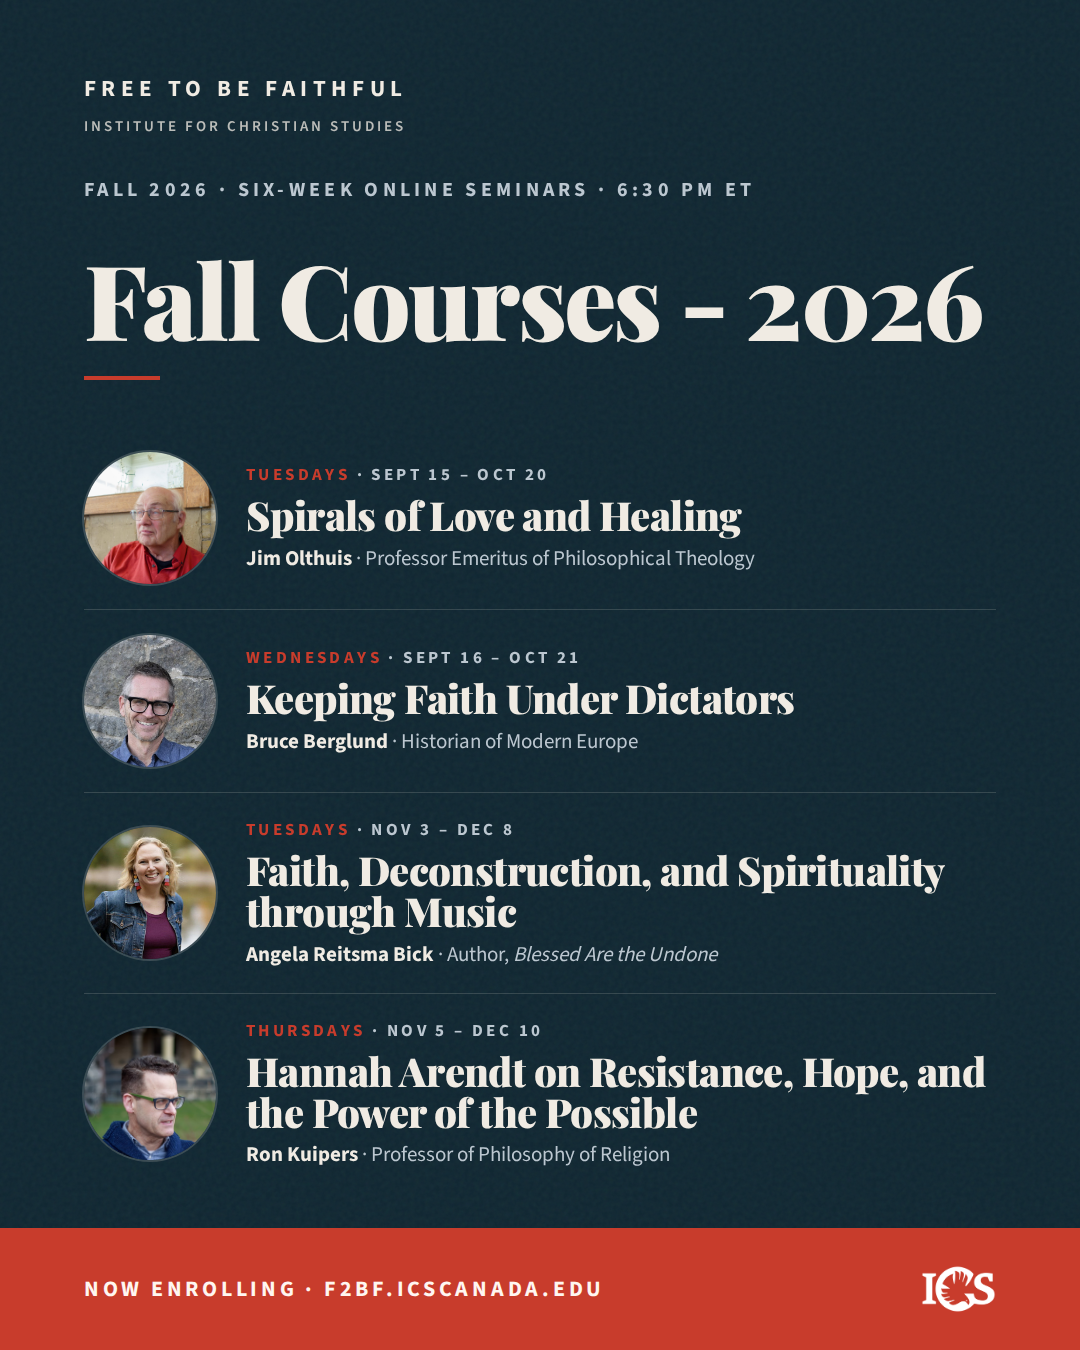
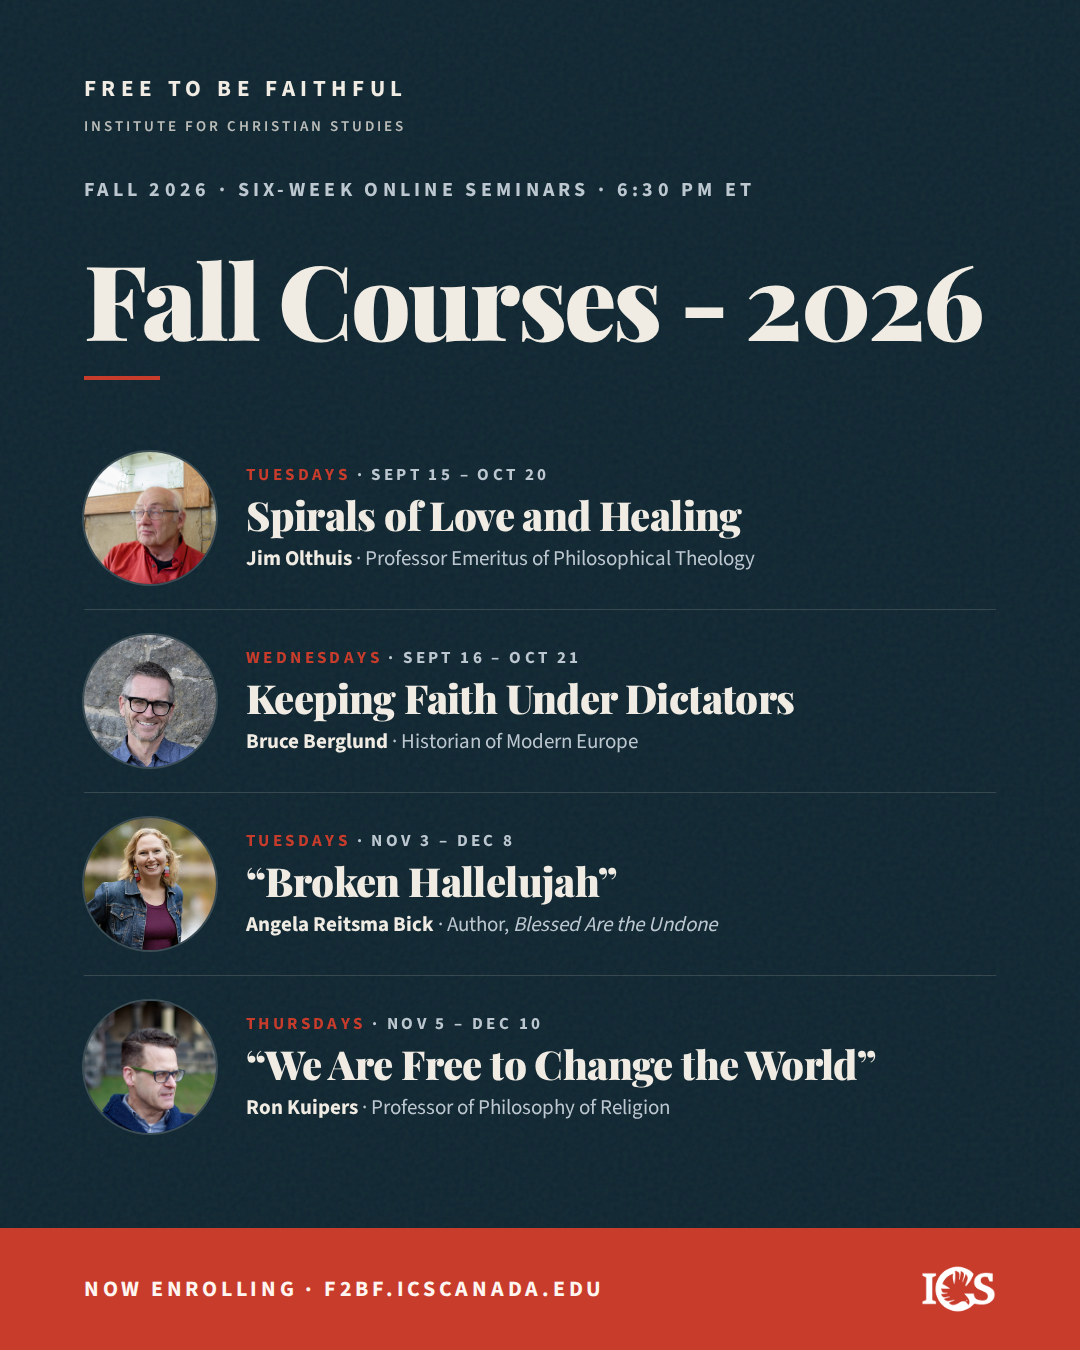
date

Changed region(s): [[0.0611, 0.5911, 0.9167, 0.8711]]

diff --git a/social/2026-27-tiles.html b/social/2026-27-tiles.html
@@ -289,7 +289,7 @@
       <div class="course__face"><img class="course__img" src="../assets/img/AngelaBick.jpeg" alt="" style="object-position: 50% 40%"><div class="course__tint"></div></div>
       <div>
         <div class="course__meta">Tuesdays <span>· Nov 3 – Dec 8</span></div>
-        <div class="course__name">Faith, Deconstruction, and Spirituality through Music</div>
+        <div class="course__name">“Broken Hallelujah”</div>
         <div class="course__who"><strong>Angela Reitsma Bick</strong> · Author, <em>Blessed Are the Undone</em></div>
       </div>
     </div>
@@ -297,7 +297,7 @@
       <div class="course__face"><img class="course__img" src="../assets/img/RonKuipers.jpg" alt="" style="object-position: 44% 22%; transform: scale(1.45); transform-origin: 44% 26%"><div class="course__tint"></div></div>
       <div>
         <div class="course__meta">Thursdays <span>· Nov 5 – Dec 10</span></div>
-        <div class="course__name">Hannah Arendt on Resistance, Hope, and the Power of the Possible</div>
+        <div class="course__name">“We Are Free to Change the World”</div>
         <div class="course__who"><strong>Ron Kuipers</strong> · Professor of Philosophy of Religion</div>
       </div>
     </div>
